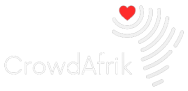
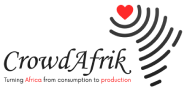
white-theme

diff --git a/app/page.js b/app/page.js
@@ -10,31 +10,27 @@ import square from "./images/square.png"
 import Works from "./components/recentworks"
 import Blog from "./components/blogs"
 import Footer from "./components/footer"
-import Navigation from "./components/navbar"
 
 export default function Home() {
   return (
     <>
-  <Navigation/>
-      <div className='container  mx-auto p-4 bg-black'>
-        <div className='grid lg:grid-cols-2 gap-4 mt-16 sm:grid-cols-1 md:grid-cols-2  text-grey-900'>
-          <div className='mt-0 lg:mt-60 md:mt-52' data-aos="fade-right">
-            <h1 className="font-bold text-4xl lg:text-5xl font-VT323 pb-4 ">Hey! &#128591;</h1>
-            <h1 className="font-bold text-4xl lg:text-5xl font-VT323">I’m Rohith Nair Reghu</h1>
-            <h2 className="text-2xl pt-2 d font-VT323">Senior Product Designer, Developer </h2>
-            <p className="pt-5 pb-14 max-w-l font-thin font-VT323 text-l text-gray-400">With four years of experience in the field of designing and development, I'm committed to uniting people and technology, harnessing its potential to empower individuals, and driving positive change in society.</p>
-            <a className="text-xl text-blue-500 mt-8 font-VT323 font-semibold underline" href="mailto:rohithnairreghu@gmail.com">Get in Touch &#8594;</a>
-          </div>
-          <div className='mt-12'>
-            <Image
-              className="w-full h-auto"
-              src={image1}
-              alt={'main image'}
-            />
-            <div>
 
-            </div>
+      <div className='container mx-auto p-4'>
+
+        <div className='grid lg:grid-cols-2 gap-4 mt-16 sm:grid-cols-1 md:grid-cols-2  text-grey-900'>
+          <div className='mt-0 lg:mt-10 md:mt-20' data-aos="fade-right">
+            <h1 className="font-bold text-gray-900  text-4xl lg:text-5xl font-Jakarta pb-4 ">Hey !</h1>
+            <h1 className="font-bold text-gray-900 text-4xl lg:text-5xl font-Jakarta">I’m Rohith Nair</h1>
+            <h2 className="text-2xl text-gray-900 pt-2 d font-Jakarta">Product Designer || Developer </h2>
+            <p className="pt-5 pb-14 text-gray-900 max-w-l font-thin font-Jakarta text-l">With four years of experience in the field of designing and development, I'm committed to uniting people and technology, harnessing its potential to empower individuals, and driving positive change in society.</p>
+            <a className="text-xl mt-8 font-Jakarta font-semibold bg-black text-white px-8 py-4" href="mailto:rohithnairreghu@gmail.com">Contact &#8594;</a>
           </div>
+
+        </div>
+
+        <div className="mt-40 font-Jakarta font-bold text-gray-900 text-3xl">
+          <h1> Recent works</h1>
+          <Works />
         </div>
 
         <div className='grid lg:grid-cols-4 gap-4  sm:grid-cols-1 md:grid-cols-2 mt-48 text-white'  >
@@ -60,60 +56,31 @@ export default function Home() {
           /></div>
         </div>
 
-        <div className='grid lg:grid-cols-3 gap-4 mx-auto sm:grid-cols-1 md:grid-cols-3 pt-64 text-white'>
-          <div className="pt-12 text-white"><Image
-            className="max-w-sm h-auto mx-auto"
-            src={circle}
-            alt={'main image'}
-          />
-            <h3 className=" font-VT323 font-semibold text-center my-8 text-xl">Product Design</h3>
-            <p className=" font-VT323 font-light text-center my-8 text-xl" >As a product designer with a passion for my craft, I have gained experience working for both large organizations and fast-paced startups, giving me a unique perspective on the field.</p>
+        <div className="grid lg:grid-cols-4 gap-4 sm:grid-cols-1 md:grid-cols-2 bg-gray-900 p-4 mt-72 text-white ">
+          <div className="my-8">
+            <h3 className="text-white font-Jakarta font-semibold text-5xl text-center">4+</h3>
+            <p className="text-white text-center font-light mt-4 text-l"> Years Of Experience</p>
           </div>
-          <div className="pt-12  text-white"><Image
-            className="max-w-sm h-auto mx-auto "
-            src={triangle}
-            alt={'main image'}
-          />
-            <h3 className="font-VT323 font-semibold text-center my-8 text-xl">Front End Development</h3>
-            <p className=" font-VT323 font-light text-center my-8 text-xl" >Front-end developer passionate about building beautiful and user-friendly interfaces with Next.js, React, HTML, CSS, and JavaScript.</p>
+          <div className="my-8">
+            <h3 className="text-white font-Jakarta font-semibold text-5xl text-center">50+</h3>
+            <p className="text-white text-center font-light mt-4 text-l">Design Projects</p>
           </div>
-          <div className="pt-12  text-white"><Image
-            className="max-w-sm h-auto mx-auto "
-            src={square}
-            alt={'main image'}
-          />
-            <h3 className=" font-VT323 font-semibold text-center my-8 text-xl">User Experience Designer</h3>
-            <p className=" font-VT323 font-light text-center my-8 text-xl" >As a user experience designer who values precision and depth, I am passionate about creating accessible and simple products that all humans can enjoy.</p>
+          <div className="my-8">
+            <h3 className="text-white font-Jakarta font-semibold text-5xl text-center">30+</h3>
+            <p className="text-white text-center font-light mt-4 text-l">Development Projects</p>
+          </div>
+          <div className="my-8">
+            <h3 className="text-white font-Jakarta font-semibold text-5xl text-center">20+</h3>
+            <p className="text-white text-center font-light mt-4 text-l">Collaborations</p>
           </div>
         </div>
 
 
-        <div className="grid lg:grid-cols-4 gap-4 sm:grid-cols-1 md:grid-cols-2 bg-white p-4 mt-72 text-black ">
-          <div className="my-8">
-            <h3 className="text-black font-VT323 font-semibold text-5xl text-center">4+</h3>
-            <p className="text-black text-center font-light mt-4 text-l"> Years Of Experience</p>
-          </div>
-          <div className="my-8">
-            <h3 className="text-black font-VT323 font-semibold text-5xl text-center">50+</h3>
-            <p className="text-black text-center font-light mt-4 text-l">Design Projects</p>
-          </div>
-          <div className="my-8">
-            <h3 className="text-black font-VT323 font-semibold text-5xl text-center">30+</h3>
-            <p className="text-black text-center font-light mt-4 text-l">Development Projects</p>
-          </div>
-          <div className="my-8">
-            <h3 className="text-black font-VT323 font-semibold text-5xl text-center">20+</h3>
-            <p className="text-black text-center font-light mt-4 text-l">Collaborations</p>
-          </div>
-        </div>
-        <div className="mt-40 font-VT323 font-bold text-3xl">
-          <h1 className="mt-40 font-VT323 font-bold text-3xl"> Recent works &#128640;</h1>
-          <Works />
-        </div>
-        <div >
-          <h1 className="mt-40 font-VT323 font-bold text-3xl"> Blogs &#128188;</h1>
+        <div className="mt-40 font-Jakarta font-bold text-3xl">
+          <h1> Blogs</h1>
           <Blog />
         </div>
+
       </div>
       <Footer />
     </>

diff --git a/app/components/navbar.jsx b/app/components/navbar.jsx
@@ -2,12 +2,13 @@
 export default function Navigation() {
   return (
     <>
-      <header className="text-white body-font">
+      <header className="text-grey-900 body-font">
         <div className="container mx-auto flex flex-wrap p-5 flex-col md:flex-row items-center">
           <a className="flex title-font font-medium items-center text-gray-900 mb-4 md:mb-0">
-            <svg width="67" height="33" viewBox="0 0 67 33" fill="none" xmlns="http://www.w3.org/2000/svg">
-              <path d="M7.02344 6.35742V18.6895H13.1895C14.0345 18.6895 14.8294 18.5319 15.5742 18.2168C16.319 17.8874 16.9707 17.4434 17.5293 16.8848C18.0879 16.3262 18.5247 15.6745 18.8398 14.9297C19.1693 14.1706 19.334 13.3685 19.334 12.5234C19.334 11.6784 19.1693 10.8835 18.8398 10.1387C18.5247 9.37956 18.0879 8.7207 17.5293 8.16211C16.9707 7.60352 16.319 7.16667 15.5742 6.85156C14.8294 6.52214 14.0345 6.35742 13.1895 6.35742H7.02344ZM7.02344 31H0.857422V0.191406H13.1895C14.321 0.191406 15.4095 0.341797 16.4551 0.642578C17.5007 0.929036 18.4746 1.3444 19.377 1.88867C20.2936 2.41862 21.1243 3.06315 21.8691 3.82227C22.6283 4.56706 23.2728 5.39779 23.8027 6.31445C24.347 7.23112 24.7624 8.21224 25.0488 9.25781C25.3496 10.3034 25.5 11.3919 25.5 12.5234C25.5 13.5833 25.3639 14.6146 25.0918 15.6172C24.834 16.6198 24.4544 17.5723 23.9531 18.4746C23.4661 19.377 22.8646 20.2077 22.1484 20.9668C21.4323 21.7259 20.6302 22.3848 19.7422 22.9434L23.1582 31H16.6055L13.9199 24.791L7.02344 24.834V31ZM54.2031 31H47.6074L35.7266 10.7188V31H29.5605V0.191406H36.1562L48.0371 20.4941V0.191406H54.2031V31ZM66.5352 28.8086C66.5352 29.3242 66.4421 29.8112 66.2559 30.2695C66.0697 30.7135 65.8118 31.1003 65.4824 31.4297C65.153 31.7591 64.7663 32.0169 64.3223 32.2031C63.8783 32.4036 63.3984 32.5039 62.8828 32.5039C62.3815 32.5039 61.9017 32.4036 61.4434 32.2031C60.9993 32.0169 60.6055 31.7591 60.2617 31.4297C59.9323 31.1003 59.6673 30.7135 59.4668 30.2695C59.2806 29.8112 59.1875 29.3242 59.1875 28.8086C59.1875 28.3073 59.2806 27.8346 59.4668 27.3906C59.6673 26.9466 59.9323 26.5599 60.2617 26.2305C60.6055 25.901 60.9993 25.6432 61.4434 25.457C61.9017 25.2565 62.3815 25.1562 62.8828 25.1562C63.3984 25.1562 63.8783 25.2565 64.3223 25.457C64.7663 25.6432 65.153 25.901 65.4824 26.2305C65.8118 26.5599 66.0697 26.9466 66.2559 27.3906C66.4421 27.8346 66.5352 28.3073 66.5352 28.8086Z" fill="white" />
-            </svg>
+          <svg width="66" height="31" viewBox="0 0 66 31" fill="none" xmlns="http://www.w3.org/2000/svg">
+<path d="M0.2 30V0.5H13.28C16.64 0.5 19.12 1.24667 20.72 2.74C22.3333 4.22 23.14 6.28666 23.14 8.94C23.14 10.4333 22.8533 11.7067 22.28 12.76C21.7067 13.8133 20.9933 14.6267 20.14 15.2C19.2867 15.7733 18.44 16.0933 17.6 16.16C18.4667 16.2133 19.2733 16.42 20.02 16.78C20.7667 17.14 21.3667 17.72 21.82 18.52C22.2867 19.3067 22.52 20.3733 22.52 21.72C22.52 22.5733 22.52 23.3867 22.52 24.16C22.52 24.9333 22.52 25.7467 22.52 26.6C22.52 27.3067 22.5733 27.98 22.68 28.62C22.8 29.2467 22.98 29.7067 23.22 30H15.14C14.9267 29.6667 14.76 29.1933 14.64 28.58C14.5333 27.9667 14.48 27.3067 14.48 26.6C14.48 25.8667 14.48 25.2067 14.48 24.62C14.48 24.0333 14.48 23.3733 14.48 22.64C14.48 21.5733 14.2533 20.7333 13.8 20.12C13.3467 19.4933 12.5267 19.18 11.34 19.18H5.98L8.08 16.72V30H0.2ZM8.08 16L5.98 13.18H11.42C12.1 13.18 12.6933 13.04 13.2 12.76C13.72 12.48 14.12 12.08 14.4 11.56C14.6933 11.0267 14.84 10.4067 14.84 9.7C14.84 8.83333 14.5267 8.08 13.9 7.44C13.2867 6.8 12.4467 6.48 11.38 6.48H5.78L8.08 4.08V16ZM34.6616 30H26.8016V0.5H39.1216L47.2616 27.58L45.7016 27.9V0.5H53.5616V30H41.1416L33.0016 3.02L34.6616 2.7V30ZM62.0734 30.64C60.9801 30.64 60.0468 30.26 59.2734 29.5C58.5134 28.7267 58.1334 27.7933 58.1334 26.7C58.1334 25.62 58.5134 24.7 59.2734 23.94C60.0468 23.1667 60.9801 22.78 62.0734 22.78C63.1534 22.78 64.0734 23.1667 64.8334 23.94C65.6068 24.7 65.9934 25.62 65.9934 26.7C65.9934 27.7933 65.6068 28.7267 64.8334 29.5C64.0734 30.26 63.1534 30.64 62.0734 30.64Z" fill="#2E2E2E" fillOpacity="0.933333"/>
+</svg>
+
           </a>
           <nav className="md:mr-auto md:ml-4 md:py-1 md:pl-4 md:border-l md:border-gray-400	flex flex-wrap items-center text-base justify-center">
             <a className="mr-5 hover:text-indigo-500" href="https://drive.google.com/file/d/18nRO-PdHtWKZ9XHItEWcpN32-L5mGZOK/view?usp=drive_link">Resume</a>

diff --git a/app/components/recentworks.jsx b/app/components/recentworks.jsx
@@ -18,11 +18,12 @@ const Works = async () => {
   const data = (await getData()) || [];
   return (
     
-    <div className="mt-4 grid lg:grid-cols-2 gap-4 md:grid-cols-2 grid-cols-1">
+    <div className="mt-4 grid lg:grid-cols-3 gap-4 md:grid-cols-2 grid-cols-1">
       {data.map((design) => (
-     <a href={design.link} className="text-xl font-extralight text-blue-300">
+    
         <div key={design._id}>  
-          <div className="mt-20" >
+          <div className="mt-20">
+          <a href={design.link} className="text-xl font-extralight text-blue-300">
           {design.imageUrl && (
             <Image className="w-auto h-lg" style={{ height: '70%', width: '100%' }}
            width={1400}
@@ -30,11 +31,12 @@ const Works = async () => {
               src={design.imageUrl}
               alt={design.heading}
             />)}
-            <h1 className="font-bold font-VT323 mt-8 lg:text-2xl md:text-xl text-xl">{design.heading}</h1>
-            <p className="font-light font-VT323 mt-2 mb-4 text-sm lg:text-xl md:text-lg text-gray-400">{design.description}</p>
+            <h1 className="font-medium font-Jakarta mt-8 lg:text-xl md:text-xl text-xl text-slate-800">{design.heading}</h1>
+            <p className="font-light font-Jakarta mt-2 mb-4 text-sm lg:text-base md:text-lg text-gray-700">{design.description}</p>
+            </a>
           </div>
         </div>
-        </a>
+      
       ))}
     </div>
     

diff --git a/app/components/blogs.jsx b/app/components/blogs.jsx
@@ -17,7 +17,7 @@ const Blogs = async () => {
   const data = (await getData()) || [];
 
   return (
-    <div className="mt-4 grid lg:grid-cols-2 gap-4 md:grid-cols-2 grid-cols-1 ">
+    <div className="mt-4 grid lg:grid-cols-3 gap-4 md:grid-cols-2 grid-cols-1 ">
       {data.map((blog) => (
      
         <div key={blog._id}>
@@ -31,9 +31,9 @@ const Blogs = async () => {
               src={blog.imageUrl}
               alt={blog.heading}
             />)}
-            <h1 className="font-bold font-VT323 mt-8 text-2xl">{blog.heading}</h1>
-            <p className="font-light font-VT323 mt-2 mb-4 text-xl text-slate-700">{blog.description}</p>
-            <a className="text-xl text-blue-500 font-semibold underline" >Get in Touch &#8594;</a>
+            <h1 className="font-normal font-Jakarta mt-8 text-xl">{blog.heading}</h1>
+            <p className="font-light font-Jakarta mt-2 mb-4 text-xl text-slate-700">{blog.description}</p>
+            <a href={blog.link} className="text-base text-blue-500 font-thin underline" >Read More &#8594;</a>
             
           </div>
         </div>

diff --git a/app/globals.css b/app/globals.css
@@ -2,16 +2,15 @@
 @tailwind components;
 @tailwind utilities;
 
-@import url('https://fonts.googleapis.com/css2?family=Epilogue:wght@200;500;700&family=Space+Grotesk:wght@300;500;700&display=swap');
-@import url('https://fonts.googleapis.com/css2?family=VT323&display=swap');
+@import url('https://fonts.googleapis.com/css2?family=Plus+Jakarta+Sans:ital,wght@0,200;0,300;0,500;0,600;0,700;1,200;1,300&display=swap');
 
 
 html{
-  background-color: black !important;
-  color: white;
+  background-color: white !important;
+  color: #2e2e2e;
 }
 body {
-  background-color: black !important;
-  color: white;
+  background-color: white !important;
+  color:#2e2e2e;
 }
 

diff --git a/app/components/footer.jsx b/app/components/footer.jsx
@@ -2,7 +2,7 @@
 export default function Footer() {
     return (
         <>
-            <footer className="bg-black rounded-lg shadow dark:bg-black mt-40">
+            <footer className="bg-black  shadow dark:bg-black mt-40">
                 <div className="w-full max-w-screen-xl mx-auto p-4 md:py-8">
                     <div className="sm:flex sm:items-center sm:justify-between">
                         <a href="https://flowbite.com/" className="flex items-center mb-4 sm:mb-0">

diff --git a/app/layout.js b/app/layout.js
@@ -2,6 +2,7 @@
 
 import './globals.css'
 import Head from 'next/head'; // Import the Head component to set the HTML head properties.
+import Navigation  from './components/navbar';
 
 
 export const metadata = {
@@ -12,10 +13,10 @@ export const metadata = {
 export default function RootLayout({ children }) {
   return (
  <>
-      <Head>
-        <html lang="en" />
-      </Head>
+     
+      <Navigation/>
       <body>{children}</body>
+ 
     </>
   )
 }

diff --git a/tailwind.config.js b/tailwind.config.js
@@ -13,8 +13,7 @@ module.exports = {
           'conic-gradient(from 180deg at 50% 50%, var(--tw-gradient-stops))',
       },
       fontFamily: {
-        'Lexend': ['Lexend', 'sans-serif'],
-        'VT323': ['VT323', 'monospace']
+        'Jakarta': ['Plus Jakarta Sans', 'sans-serif']
       },
     },
   },
